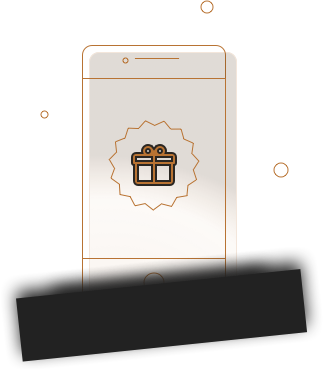
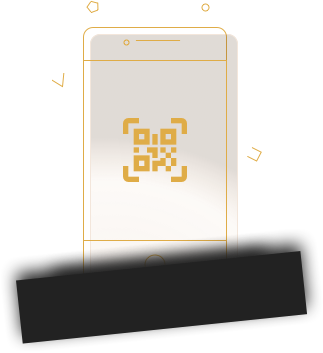
New steps pngs and fix in onboarding

diff --git a/mobile/src/pages/+auth/auth.component.scss b/mobile/src/pages/+auth/auth.component.scss
@@ -1,25 +1,32 @@
 auth-root {
+    $padding: 5% 10%;
     flex-direction: column;
     display: flex !important;
 
     ion-slides {
+        height: auto;
+        min-height: 100%;
+        display: flex;
+        align-items: center;
         ion-slide {
             color: $color-light;
         }
     }
 
     ion-content {
+        padding: $padding;
         display: flex;
         flex: 1;
         position: relative !important;
         .scroll-content {
-
+            padding: $padding;
         }
     }
     ion-footer {
         display: flex;
         flex-direction: column;
         position: relative;
+        padding: $padding;
         button {
             width: 100%;
         }

diff --git a/mobile/src/theme/variables.scss b/mobile/src/theme/variables.scss
@@ -12,10 +12,11 @@ $font-path: "../assets/fonts";
 // To view all the possible Ionic variables, see:
 // http://ionicframework.com/docs/v2/theming/overriding-ionic-variables/
 
-$color-primary: #B87333;
+$color-primary: #DFAC47;
 $color-light: #FAFAFA;
 $color-dark: #222222;
 $color-grey: #3A3A3A;
+$color-lightgrey: #8D8D8D;
 
 $background-color: $color-dark;
 $toolbar-background: $color-dark;
@@ -42,7 +43,8 @@ $colors: (
   danger:     #f53d3d,
   light:      $color-light,
   dark:       $color-dark,
-  grey:       $color-grey
+  grey:       $color-grey,
+  lightgrey:       $color-lightgrey
 );
 
 

diff --git a/mobile/src/app/app.scss b/mobile/src/app/app.scss
@@ -40,6 +40,9 @@ ion-header.header-md {
         background-image: initial;
         bottom: 0;
     }
+    ion-segment ion-segment-button {
+        color: $color-light;
+    }
 }
 
 ion-toolbar {
